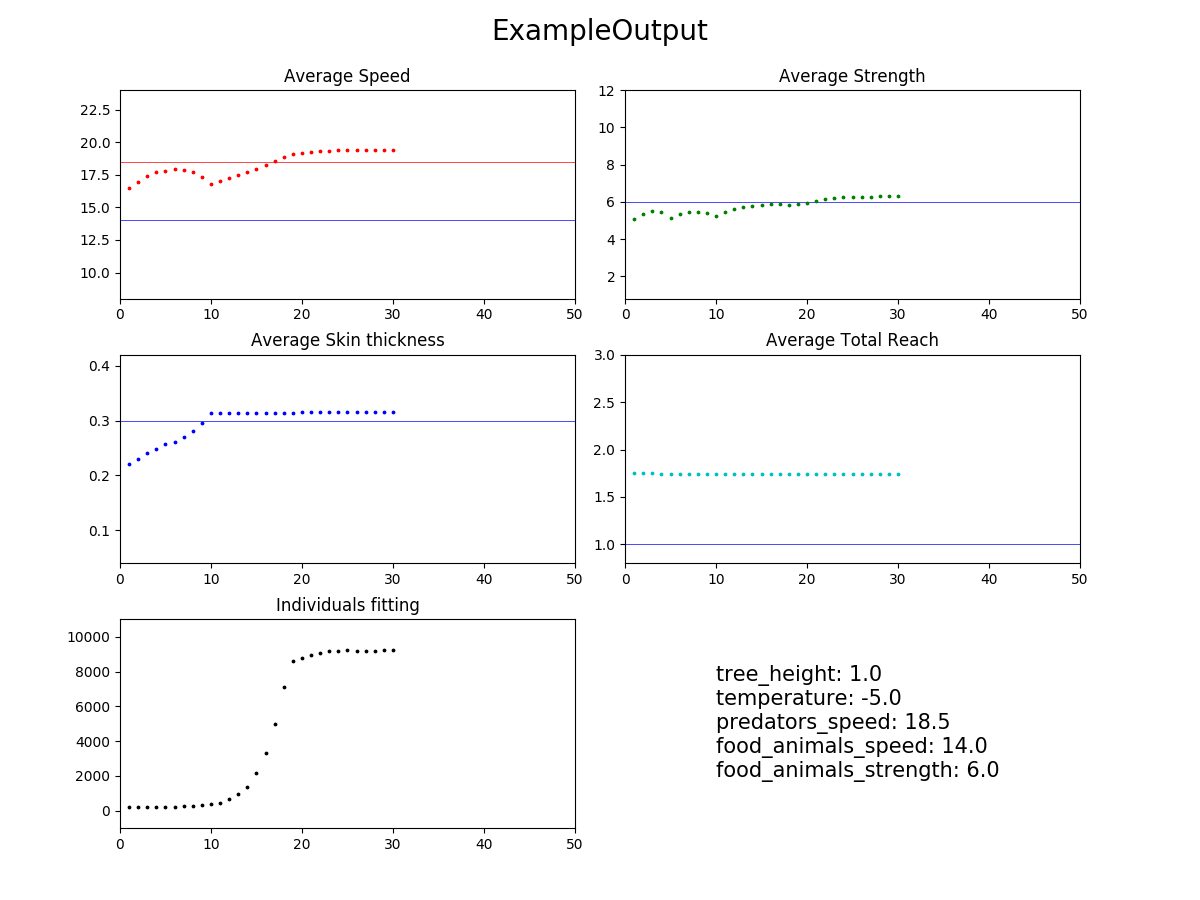
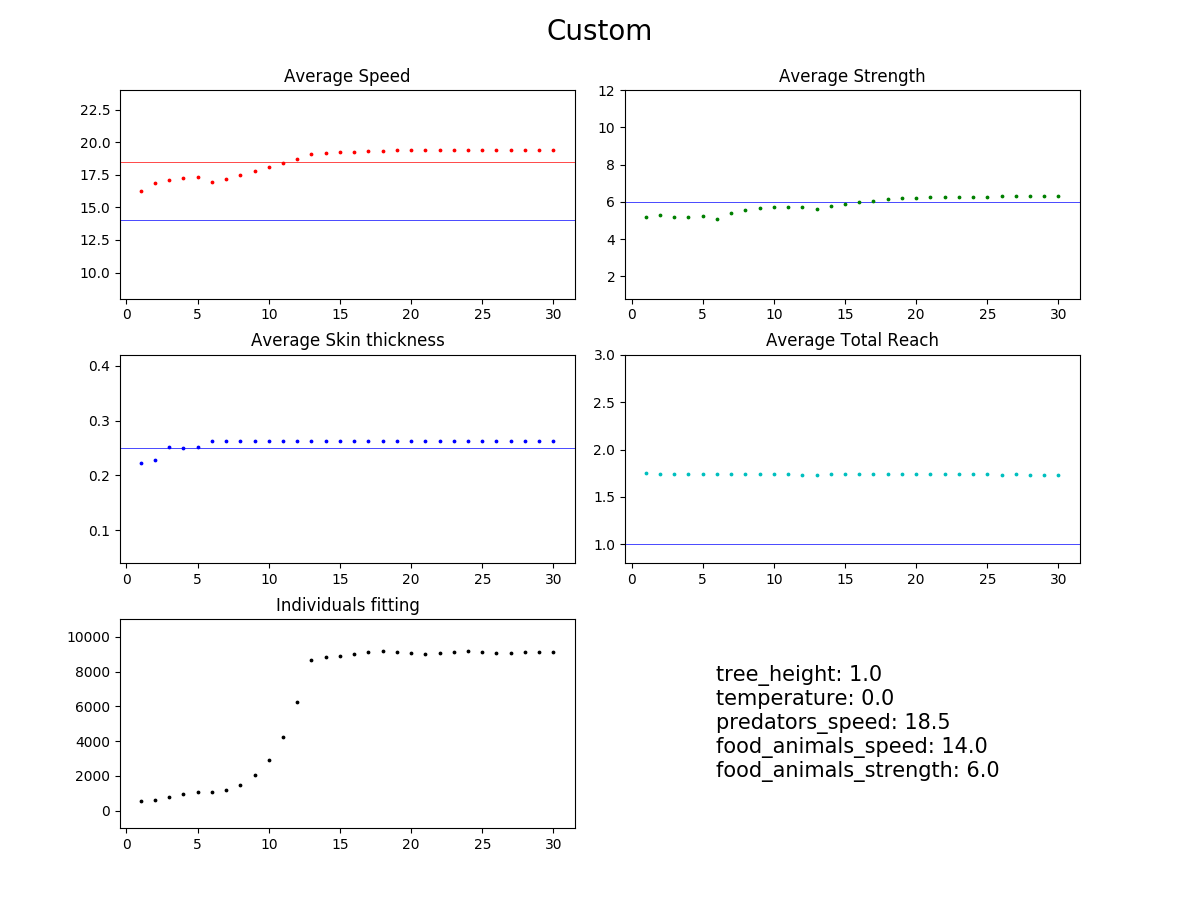
Added a method to show best and worst individuals at a given iteration

diff --git a/src/natural_selection/filter.py b/src/natural_selection/filter.py
@@ -1,7 +1,7 @@
 import asyncio
 import logging
 
-from settings.settings import initial_population_size, PARAMETERS_WEIGHTS
+from settings.settings import initial_population_size, PARAMETER_WEIGHTS
 
 
 def filter_individuals(current_population, environment):
@@ -16,8 +16,8 @@ def filter_individuals(current_population, environment):
     """
     if type(current_population) is list:
         valued_individuals = asyncio.run(create_evaluation_tasks(current_population, environment))
-        valued_individuals = [y[0] for y in sorted(valued_individuals, key=lambda x: x[1])]
-        valued_individuals = valued_individuals[int(initial_population_size * 0.4):]
+        valued_individuals = [y[0] for y in sorted(valued_individuals, key=lambda x: x[1], reverse=True)]
+        valued_individuals = valued_individuals[:int(initial_population_size * 0.6)]
         logging.debug("Deleted {} individuals".format(int(initial_population_size * 0.4)))
         return valued_individuals
     else:
@@ -27,7 +27,7 @@ def filter_individuals(current_population, environment):
             coll[individual[0]['_id']] = individual[0]
         current_population.create_collection_and_set('{}_{}'.format(coll.name, 'filtered'))
         for it_id, item in enumerate(coll.find({},
-                                               sort=[("${}".format("value"), -1)],
+                                               sort=("value", -1),
                                                limit=int(initial_population_size * 0.6))):
             current_population.current_collection[it_id] = item
         return current_population
@@ -87,10 +87,10 @@ def value_function(individual, environment):
     total_reach = individual['height'] + individual['arm_length'] + individual['jump']
 
     total_value = 0
-    total_value += PARAMETERS_WEIGHTS['total_reach'] * min(total_reach / environment['tree_height'], 1)
-    total_value += PARAMETERS_WEIGHTS['strength'] * min(individual['strength'] / environment['food_animals_strength'], 1)
-    total_value += PARAMETERS_WEIGHTS['speed'] * min(individual['speed'] / environment['predators_speed'], 1)
-    total_value += PARAMETERS_WEIGHTS['skin_thickness'] * min(individual['skin_thickness'] / skin_threshold, 1)
+    total_value += PARAMETER_WEIGHTS['total_reach'] * min(total_reach / environment['tree_height'], 1)
+    total_value += PARAMETER_WEIGHTS['strength'] * min(individual['strength'] / environment['food_animals_strength'], 1)
+    total_value += PARAMETER_WEIGHTS['speed'] * min(individual['speed'] / environment['predators_speed'], 1)
+    total_value += PARAMETER_WEIGHTS['skin_thickness'] * min(individual['skin_thickness'] / skin_threshold, 1)
     return total_value
 
 
@@ -246,35 +246,16 @@ def is_tall_enough(individual, environment):
     return True
 
 
-def natural_death(iteration, current_population):
+def show_best_and_worst_fitting(current_population, iteration):
     """
-    Kill all individuals which have as age the current iteration.
-    Also clean old database in case that we are using MongoDB
+    This method prints on terminal the best and worst valued individuals at a specific iteration
+    :param current_population: set of individuals to test against the environment
+    :type current_population: list or DBWrapper
     :param iteration: current iteration
     :type iteration: int
-    :param current_population: Object containing the individuals collections
-    :type current_population: DBWrapper
-    :return: the individuals that survived the filtering stage
-    :rtype: list or DBWrapper
     """
-    if type(current_population) is list:
-        young_individuals = []
-        for individual in current_population:
-            if individual['age'] > iteration:
-                young_individuals.append(individual)
-        young_individuals = young_individuals[0: initial_population_size]
-        logging.debug(
-            "{} individuals died of natural causes".format(int(len(current_population) - len(young_individuals)))
-        )
-        return young_individuals
-    else:
-        reproduced_population = current_population.current_collection
-        new_init_coll = '{}_{}'.format(reproduced_population.name.split('_')[0], iteration + 1)
-        current_population.create_collection_and_set(new_init_coll)
-        for index, individual in enumerate(reproduced_population.find({"age": {"$gt": iteration}})):
-            individual['_id'] = index
-            current_population.current_collection.insert_one(individual)
-
-        current_population.clean_old_collections(reproduced_population.name)
-
-        return current_population
+    print("Iteration:  {}".format(iteration))
+    if type(current_population) is not list:
+        current_population = current_population.current_collection
+    print("Worst individual: {}".format(current_population[int(initial_population_size * 0.6) - 1]))
+    print("Best individual:  {}".format(current_population[0]))

diff --git a/GeneticAlgorithm.py b/GeneticAlgorithm.py
@@ -79,6 +79,16 @@ def show_about():
     print(80 * "#")
 
 
+def execution_message(environment_name, environment_params):
+    msg = 20 * "#" + " NEW EXECUTION " + 20 * "#" + "\n" + \
+          33*"#" + " Executing with the following parameters:\n" +\
+          33*"#" + " Environment name: {}\n".format(environment_name) + 33*"#" + " -" +\
+          "\n################################# -".join(
+              ['{}: {}'.format(key, value) for key, value in environment_params.items()])
+    print(msg)
+    logging.info(msg)
+
+
 def check_input(args):
     if not args.custom and \
             (not args.name == "Not defined" or
@@ -117,13 +127,8 @@ def execute_genetic_algorithm(maximum_iterations, environment_name, environment_
     :param environment_params: the current parameters against which the individuals will be tested
     :type environment_params: dict
     """
-    logging.info(20 * "#" + " NEW EXECUTION " + 20 * "#" + "\n" +
-                 33*"#" + " Executing with the following parameters:\n" +
-                 33*"#" + " Environment name: {}\n".format(environment_name) + 33*"#" + " -" +
-                 "\n################################# -".join(
-                     ['{}: {}'.format(key, value) for key, value in environment_params.items()])
-                 )
-    my_plot.add_limits(environment_params, maximum_iterations)
+    execution_message(environment_name, environment_params)
+    my_plot.add_limits(environment_params)
     logging.info("*** Population stage ***")
     initial_population = create_individuals(environment_name)
     logging.info("*** Iteration stage ***")
@@ -144,7 +149,7 @@ def _main(argv):
 
     set_defaults(args)
 
-    set_db(args.db)
+    set_db(args.database)
 
     if args.custom:
         environment_name = args.name

diff --git a/src/tools/plot.py b/src/tools/plot.py
@@ -28,26 +28,19 @@ class PlotWrapper:
         plt.tight_layout()
         plt.gcf().subplots_adjust(bottom=0.08, right=0.9, left=0.1, top=0.9)
 
-    def add_limits(self, environment, maximum_iterations):
+    def add_limits(self, environment):
         """
         This method is used to add some horizontal axis's to the plots to understand better if the results
         make sens.
         :param environment: the current parameters against which the individuals are being tested
         :type environment: dict
-        :param maximum_iterations: max iterations to be used as limit for X Axis
-        :type maximum_iterations: int
         """
         temp_threshold = 0.05 + (abs(environment['temperature'] - 20) * (0.30 / 30))
         self.ax1.axhline(y=environment['predators_speed'], c="red", linewidth=0.5, zorder=0)
         self.ax1.axhline(y=environment['food_animals_speed'], c="blue", linewidth=0.5, zorder=0)
-        self.ax1.set_xlim(0, maximum_iterations)
         self.ax2.axhline(y=environment['food_animals_strength'], c="blue", linewidth=0.5, zorder=0)
-        self.ax2.set_xlim(0, maximum_iterations)
         self.ax3.axhline(y=temp_threshold, c="blue", linewidth=0.5, zorder=0)
-        self.ax3.set_xlim(0, maximum_iterations)
         self.ax4.axhline(y=environment['tree_height'], c="blue", linewidth=0.5, zorder=0)
-        self.ax4.set_xlim(0, maximum_iterations)
-        self.ax5.set_xlim(0, maximum_iterations)
 
         environment_params = '\n'.join(['{}: {}'.format(key, value) for key, value in environment.items()])
         self.ax6.text(0.2, 0.5, environment_params, horizontalalignment='left', verticalalignment='center', size=15)

diff --git a/src/natural_selection/natural_death.py b/src/natural_selection/natural_death.py
@@ -1,0 +1,37 @@
+import logging
+
+from settings.settings import initial_population_size
+
+
+def natural_death(iteration, current_population):
+    """
+    Kill all individuals which have as age the current iteration.
+    Also clean old database in case that we are using MongoDB
+    :param iteration: current iteration
+    :type iteration: int
+    :param current_population: Object containing the individuals collections
+    :type current_population: DBWrapper
+    :return: the individuals that survived the filtering stage
+    :rtype: list or DBWrapper
+    """
+    if type(current_population) is list:
+        young_individuals = []
+        for individual in current_population:
+            if individual['age'] > iteration:
+                young_individuals.append(individual)
+        young_individuals = young_individuals[0: initial_population_size]
+        logging.debug(
+            "{} individuals died of natural causes".format(int(len(current_population) - len(young_individuals)))
+        )
+        return young_individuals
+    else:
+        reproduced_population = current_population.current_collection
+        new_init_coll = '{}_{}'.format(reproduced_population.name.split('_')[0], iteration + 1)
+        current_population.create_collection_and_set(new_init_coll)
+        for index, individual in enumerate(reproduced_population.find({"age": {"$gt": iteration}})):
+            individual['_id'] = index
+            current_population.current_collection.insert_one(individual)
+
+        current_population.clean_old_collections(reproduced_population.name)
+
+        return current_population

diff --git a/src/natural_selection/__init__.py b/src/natural_selection/__init__.py
@@ -1,7 +1,8 @@
 import logging
 
-from src.natural_selection.filter import filter_individuals, natural_death
+from src.natural_selection.filter import filter_individuals, show_best_and_worst_fitting
 from src.natural_selection.reproduce import reproduction_stage
+from src.natural_selection.natural_death import natural_death
 from src.tools.analyze import PopulationAnalysis
 
 
@@ -22,10 +23,13 @@ def iterate(max_iterations, current_population, environment):
 
     for iteration in range(1, max_iterations+1):
 
-        if iteration % max(int(max_iterations / 10), 10) == 0:
+        if iteration % 5 == 0:
             logging.info("Iteration: {}".format(iteration))
 
         current_population = filter_individuals(current_population, environment[1])
+
+        if iteration % 5 == 0:
+            show_best_and_worst_fitting(current_population, iteration)
 
         current_population = reproduction_stage(iteration, current_population)
 
@@ -40,4 +44,5 @@ def iterate(max_iterations, current_population, environment):
         prev_analysis = new_analysis
 
     logging.info("Total number of iterations: {}".format(iteration))
+    print("Total number of iterations: {}".format(iteration))
     return current_population

diff --git a/src/tools/db_wrapper.py b/src/tools/db_wrapper.py
@@ -121,6 +121,7 @@ class MongoCollectionWrapper:
     def __setitem__(self, key, value):
         result = self.collection.replace_one({'_id': key}, value)
         if result.matched_count == 0:
+            value['_id'] = key
             self.collection.insert_one(value)
 
     def __getitem__(self, item):
@@ -141,9 +142,9 @@ class MongoCollectionWrapper:
     def find(self, my_dict=None, sort=None, limit=None):
         if sort:
             if limit:
-                return self.collection.find(my_dict, sort=sort, limit=limit)
+                return self.collection.find(my_dict).sort(sort[0], sort[1]).limit(limit)
             else:
-                return self.collection.find(my_dict, sort=sort)
+                return self.collection.find(my_dict).sort(sort[0], sort[1])
         else:
                 return self.collection.find(my_dict)
 

diff --git a/src/tools/analyze.py b/src/tools/analyze.py
@@ -61,6 +61,6 @@ class PopulationAnalysis:
             total_dif = 0
             for key, val in self.averages.items():
                 total_dif += abs(val - prev_analysis.averages[key])
-            if total_dif < 0.35:
+            if total_dif < 0.5:
                 return True
         return False

diff --git a/settings/settings.py b/settings/settings.py
@@ -50,7 +50,7 @@ ENVIRONMENT_DEFAULT = {
     'food_animals_strength': 1.0
 }
 
-PARAMETERS_WEIGHTS = {
+PARAMETER_WEIGHTS = {
     'speed': 0.225,
     'strength': 0.225,
     'total_reach': 0.5,

diff --git a/README.md b/README.md
@@ -156,11 +156,47 @@ optional arguments:
 
 ### Output
 
-The execution results will be stored in the folder _output_. The following is an example of an output:
+When executing, the terminal will show some results similar to these:
+
+```
+#################### NEW EXECUTION ####################
+################################# Executing with the following parameters:
+################################# Environment name: Custom
+################################# -tree_height: 1.0
+################################# -temperature: 0.0
+################################# -predators_speed: 18.5
+################################# -food_animals_speed: 14.0
+################################# -food_animals_strength: 6.0
+Iteration:  5
+Worst individual: {'_id': 4305, 'age': 6, 'height': 1.178, 'speed': 19.004, 'jump': 0.329, 'strength': 4.071, 'arm_length': 0.25, 'skin_thickness': 0.235, 'total_reach': 1.757, 'value': 0.04623312500000001}
+Best individual:  {'_id': 61, 'age': 6, 'height': 1.196, 'speed': 19.943, 'jump': 0.267, 'strength': 6.375, 'arm_length': 0.297, 'skin_thickness': 0.262, 'total_reach': 1.76, 'value': 0.25}
+Iteration:  10
+Worst individual: {'_id': 6530, 'age': 12, 'height': 1.183, 'speed': 17.012, 'jump': 0.23, 'strength': 5.804, 'arm_length': 0.252, 'skin_thickness': 0.262, 'total_reach': 1.665, 'value': 0.09745527027027029}
+Best individual:  {'_id': 24, 'age': 12, 'height': 1.328, 'speed': 18.629, 'jump': 0.208, 'strength': 6.54, 'arm_length': 0.272, 'skin_thickness': 0.255, 'total_reach': 1.808, 'value': 0.25}
+Iteration:  15
+Worst individual: {'_id': 7141, 'age': 17, 'height': 1.263, 'speed': 19.416, 'jump': 0.244, 'strength': 5.608, 'arm_length': 0.254, 'skin_thickness': 0.253, 'total_reach': 1.761, 'value': 0.246325}
+Best individual:  {'_id': 3003, 'age': 18, 'height': 1.277, 'speed': 20.221, 'jump': 0.229, 'strength': 6.01, 'arm_length': 0.228, 'skin_thickness': 0.265, 'total_reach': 1.734, 'value': 0.25}
+Iteration:  20
+Worst individual: {'_id': 6950, 'age': 22, 'height': 1.337, 'speed': 19.504, 'jump': 0.252, 'strength': 6.045, 'arm_length': 0.254, 'skin_thickness': 0.251, 'total_reach': 1.843, 'value': 0.25}
+Best individual:  {'_id': 0, 'age': 22, 'height': 1.218, 'speed': 19.925, 'jump': 0.237, 'strength': 6.037, 'arm_length': 0.249, 'skin_thickness': 0.258, 'total_reach': 1.704, 'value': 0.25}
+Iteration:  25
+Worst individual: {'_id': 10355, 'age': 29, 'height': 1.328, 'speed': 19.976, 'jump': 0.255, 'strength': 6.281, 'arm_length': 0.253, 'skin_thickness': 0.253, 'total_reach': 1.836, 'value': 0.25}
+Best individual:  {'_id': 0, 'age': 26, 'height': 1.253, 'speed': 19.77, 'jump': 0.247, 'strength': 6.362, 'arm_length': 0.247, 'skin_thickness': 0.27, 'total_reach': 1.747, 'value': 0.25}
+Iteration:  30
+Worst individual: {'_id': 7487, 'age': 32, 'height': 1.264, 'speed': 18.728, 'jump': 0.251, 'strength': 6.597, 'arm_length': 0.265, 'skin_thickness': 0.266, 'total_reach': 1.78, 'value': 0.25}
+Best individual:  {'_id': 3002, 'age': 32, 'height': 1.2, 'speed': 18.918, 'jump': 0.242, 'strength': 6.196, 'arm_length': 0.259, 'skin_thickness': 0.264, 'total_reach': 1.701, 'value': 0.25}
+Total number of iterations: 30
+```
+
+Here you can see the worst valued and best valued individuals every 5 iterations.
+
+The average execution results will be stored in the folder _output_. The following is an example of an output:
 
 ![alt text][logo3]
 
 [logo3]: output/ExampleOutput.png "Example output"
+
+You can also find some logs in the file _genetic_algorithm.log_, which will have data from your last execution
 
 ### Testing
 
